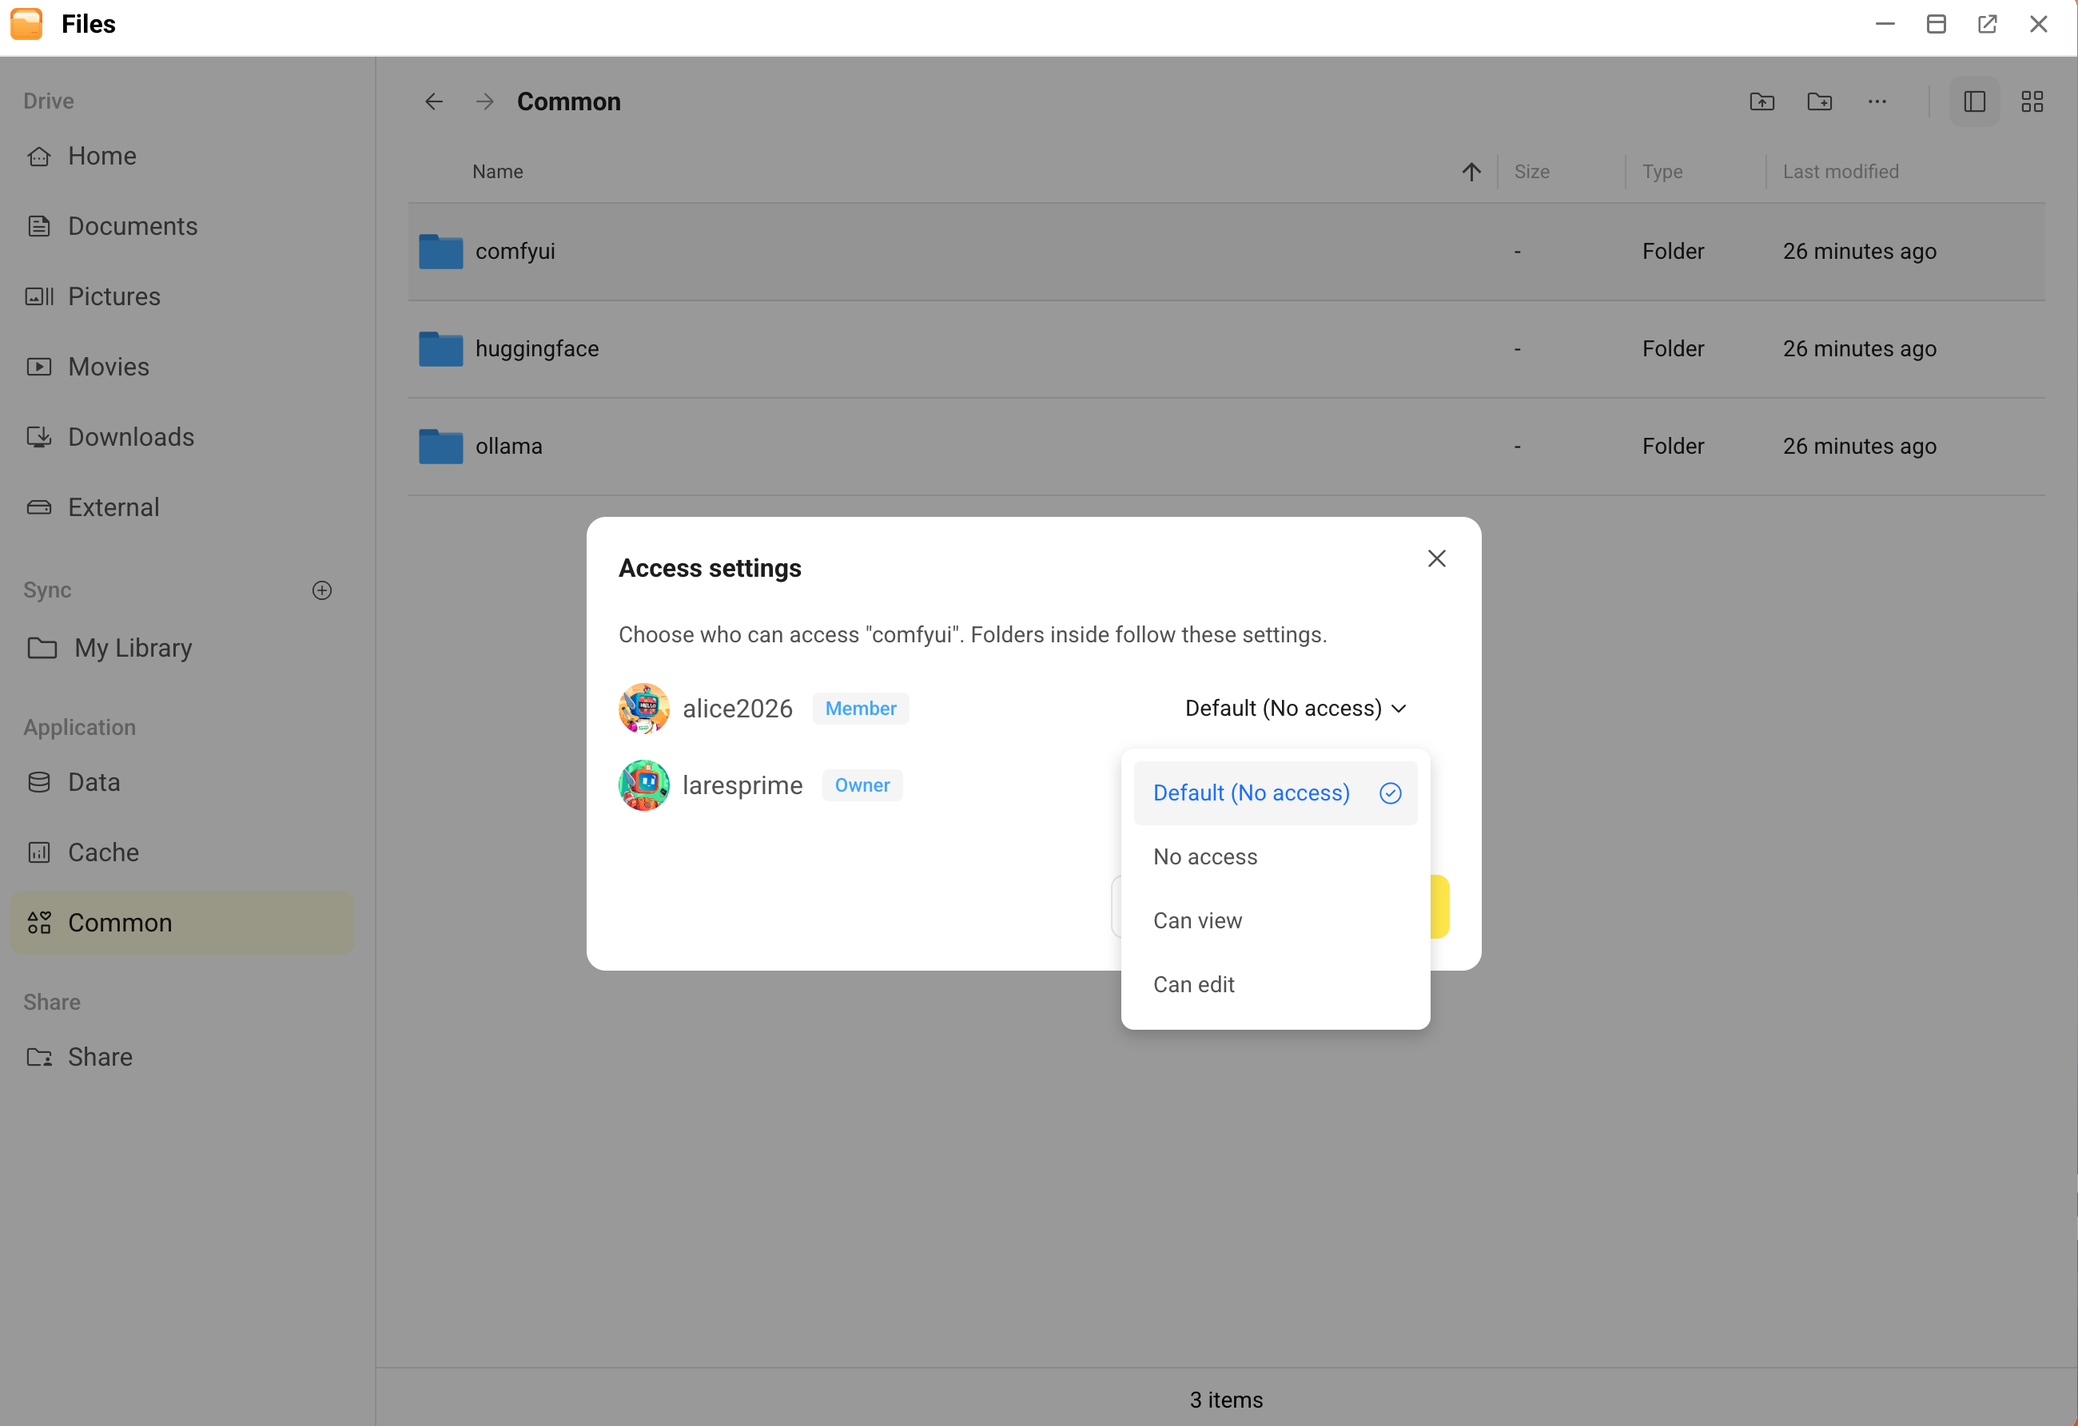
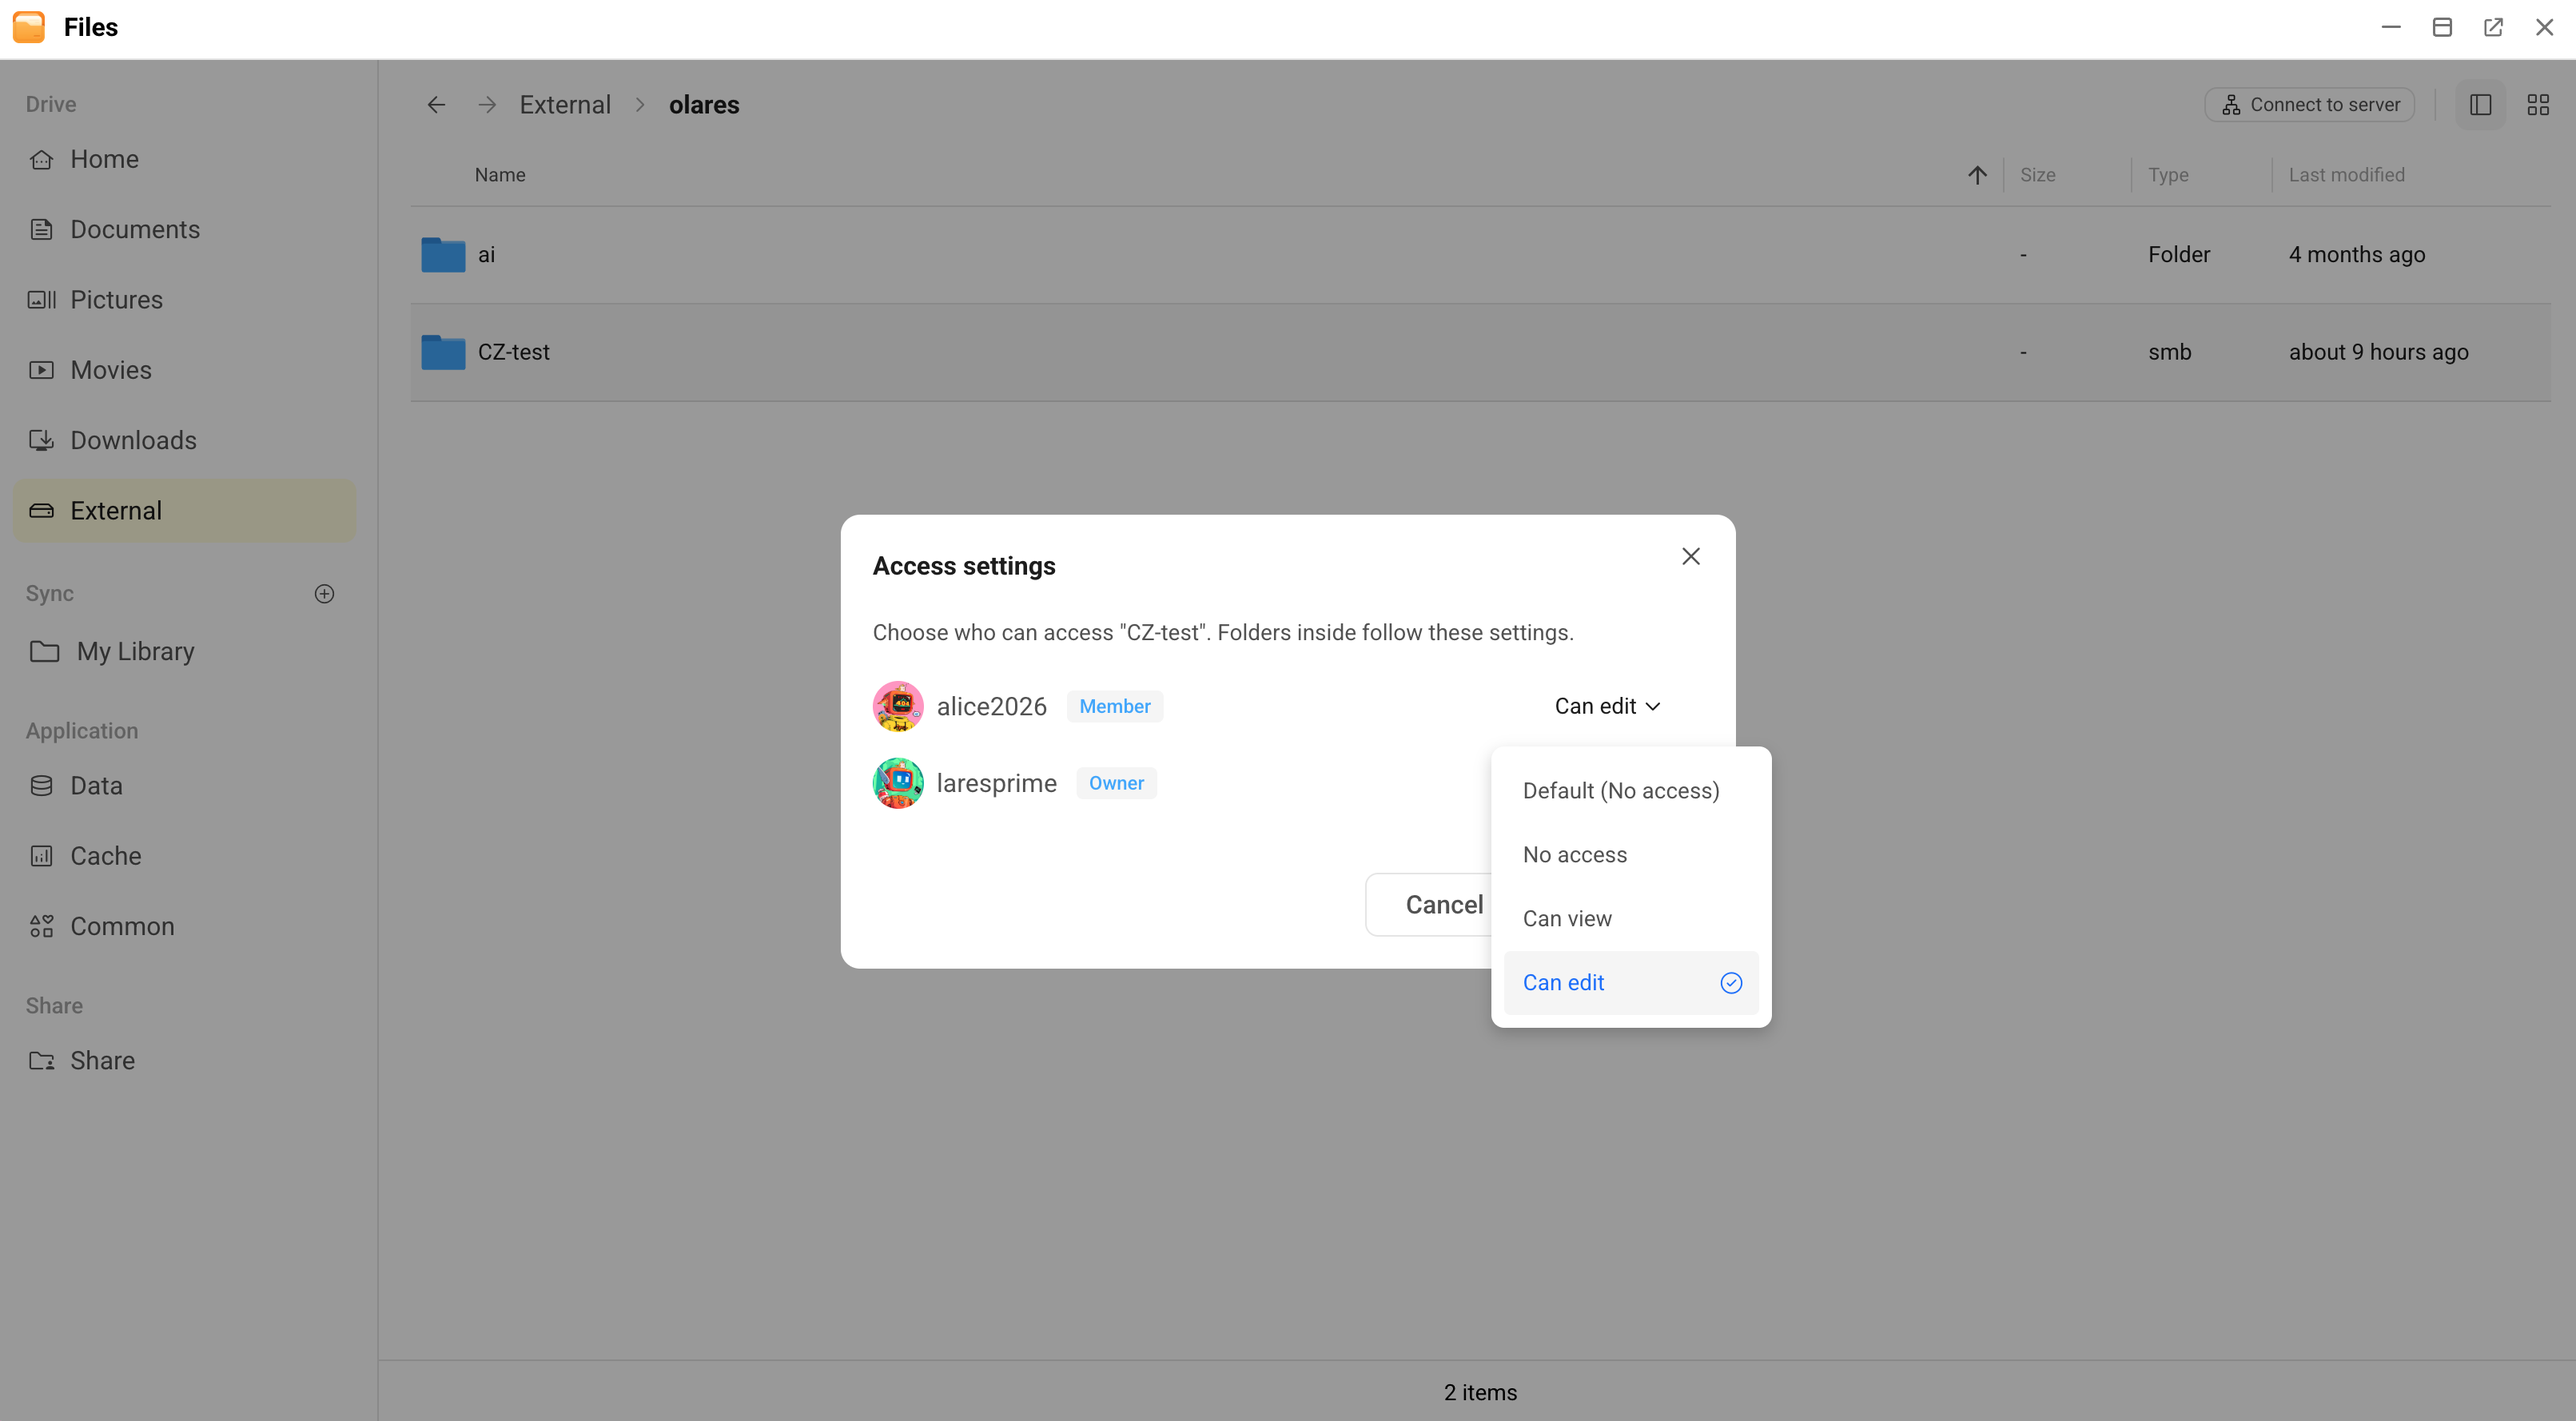
update images

diff --git a/docs/manual/olares/files/manage-common-external-access.md b/docs/manual/olares/files/manage-common-external-access.md
@@ -40,7 +40,7 @@ For more about Olares roles, see [Manage your team](../settings/manage-team.md).
 2. Go to **Application** > **Common** or **Drive** > **External**.
 3. Right-click the top-level folder or mounted directory, and select **Access settings**.
 
-   ![Access settings in the Common folder context menu](/images/manual/olares/files-access-settings.png#bordered)
+   ![Access settings in an External SMB folder context menu](/images/manual/olares/files-access-settings.png#bordered)
 
 4. Find the member and choose a permission:
 
@@ -89,5 +89,5 @@ Members cannot change these settings themselves. If a member reports a problem, 
 | --- | --- |
 | A folder is missing, or the member sees “No folders you can access.” | Check the member's permission on the top-level folder or mount. |
 | The member can read but cannot upload or edit. | Check whether the permission is **Can view**. For NAS storage, also check that the NAS share allows writing. |
-| **Access settings** is missing or unavailable. | Make sure you selected a Common top-level folder or an External mount, and that your account can manage that folder. |
+| **Access settings** is missing or<br> unavailable. | Make sure you selected a Common top-level folder or an External mount, and that your account can manage that folder. |
 | Access stopped after an upgrade or a storage change. | Check that the expected storage is mounted. Check the member’s access settings and grant access again if needed. |
